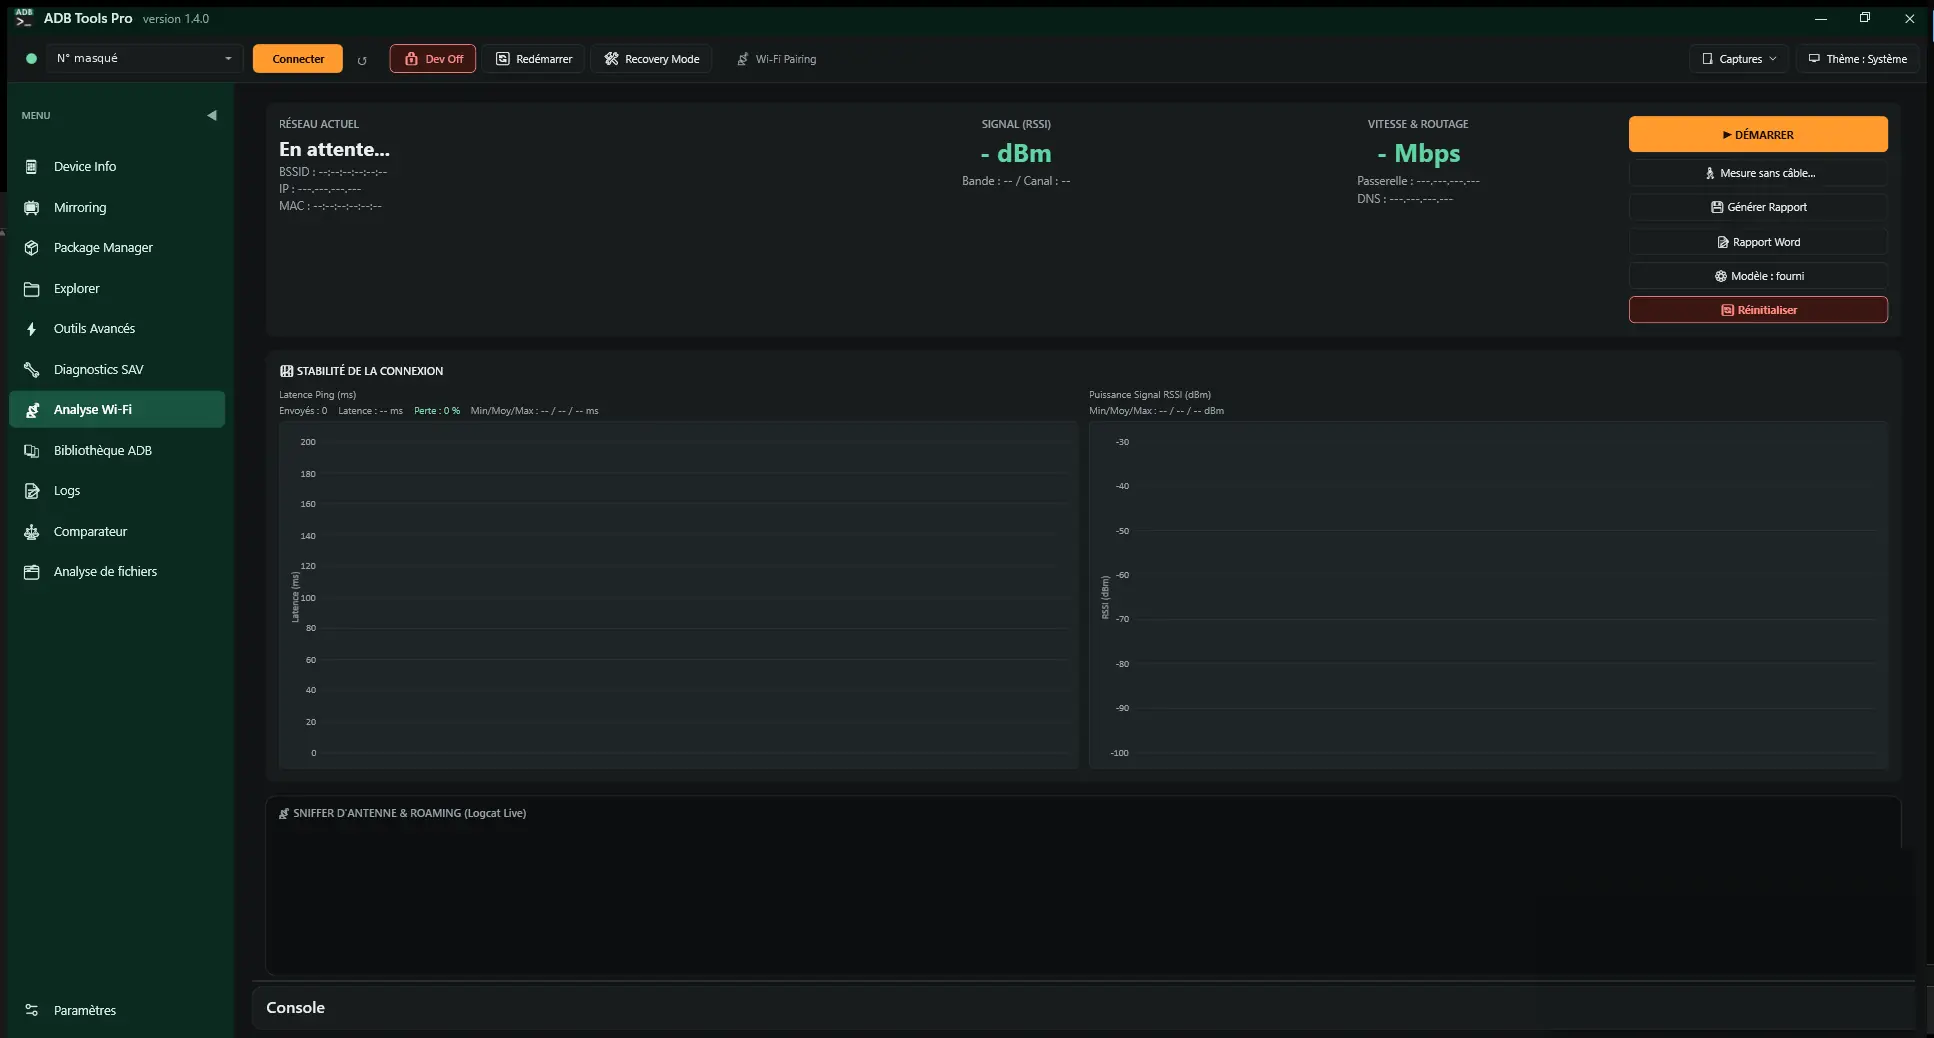
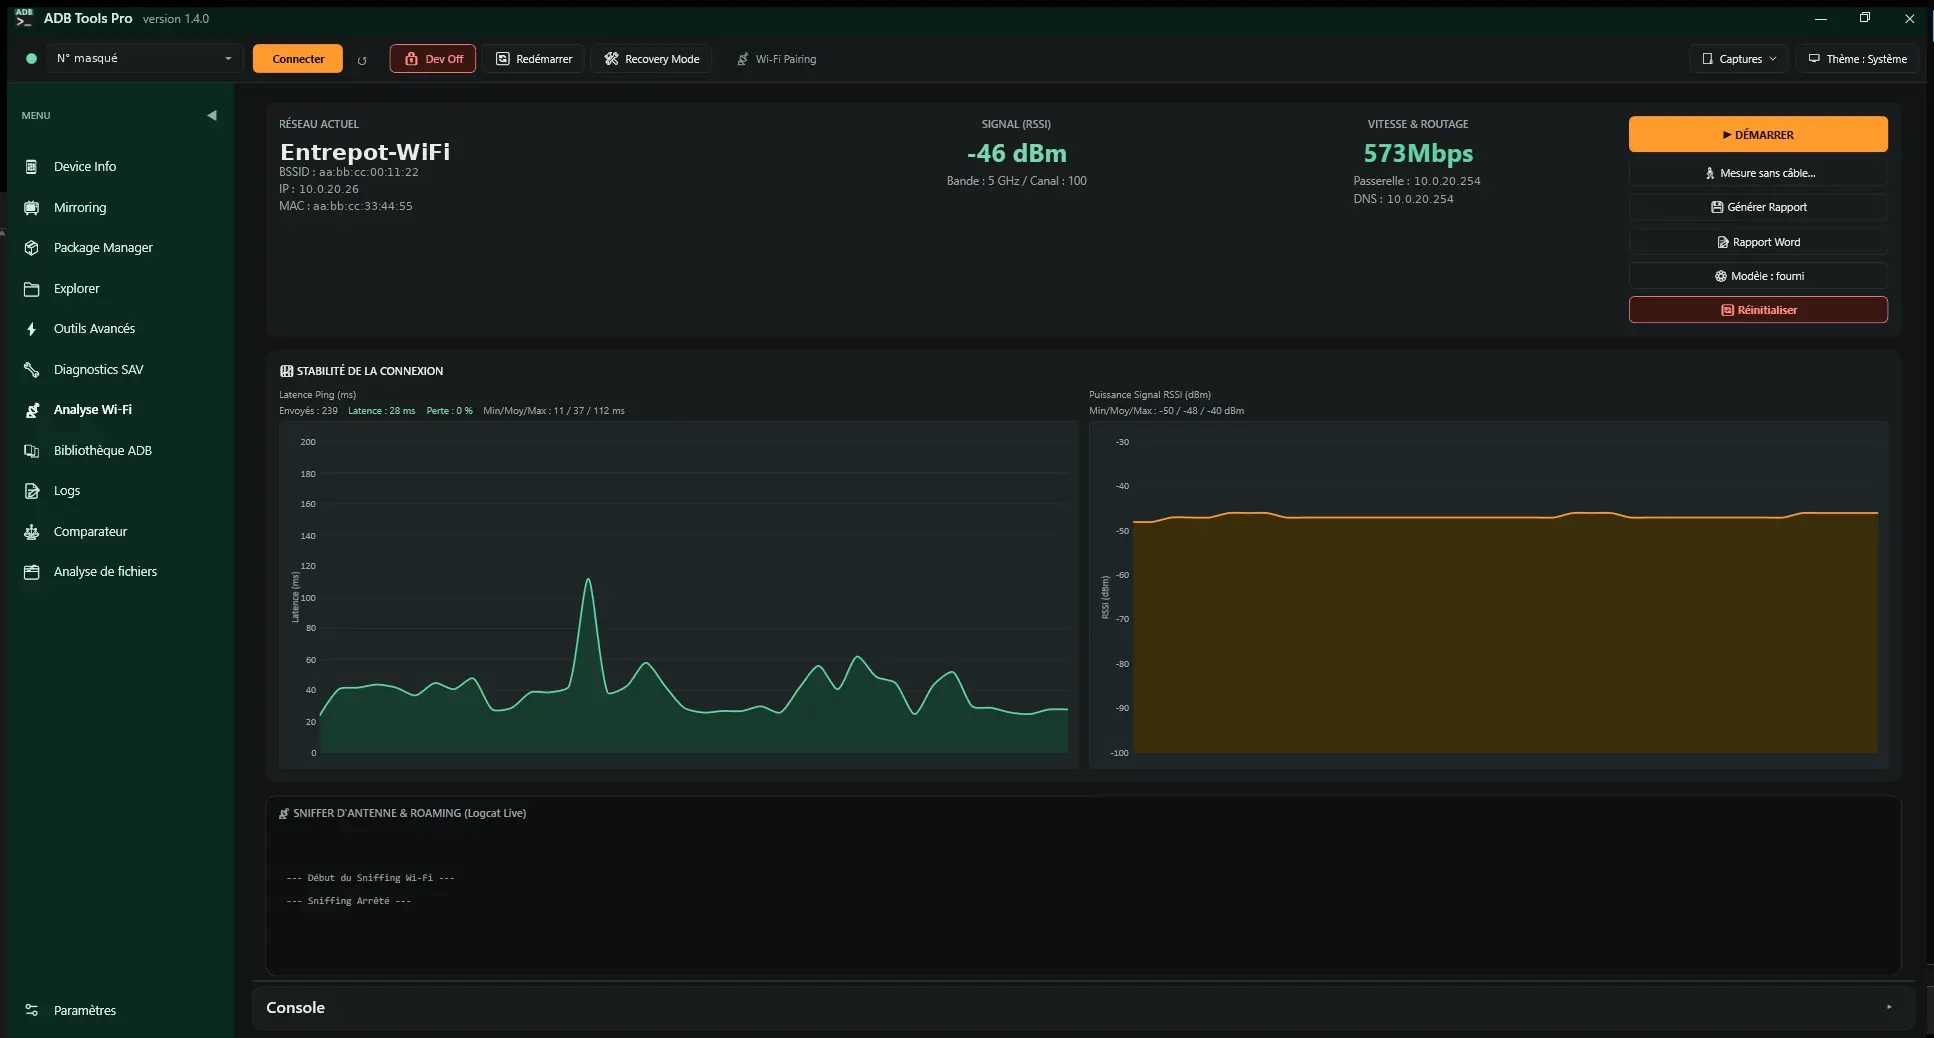
Site : captures du test du lecteur, de l'analyse Wi-Fi et des rapports Word
Réseau Wi-Fi, BSSID, adresses IP et MAC remplacés par des valeurs d'exemple ; numéros de série masqués.
L'explorateur et la bibliothèque de commandes quittent la galerie (toujours décrits dans les fonctions).

Claude-Session: https://claude.ai/code/session_0161XsggCHTURgo5H8VgTaWT

diff --git a/site/index.html b/site/index.html
@@ -275,18 +275,21 @@
     <section id="captures">
     <div class="wrap">
       <h2>En images</h2>
-      <p class="intro">Captures de la version 1.4 en thème sombre, sur un Zebra TC58. Cliquez pour agrandir.</p>
+      <p class="intro">Captures de la version 1.4 en thème sombre, sur des Zebra TC58 et TC53. Numéros de série et réseau masqués. Cliquez pour agrandir.</p>
       <div class="shots">
         <figure class="lead"><a href="assets/captures/analyse-fichiers.webp" title="Ouvrir en grand"><img src="assets/captures/analyse-fichiers.webp" alt="Analyse de fichiers : un relevé RxLogger de 2,2 millions de lignes, la frise par sujet et les outils d'enquête." width="1934" height="1038" decoding="async"></a><figcaption>Analyse de fichiers : un relevé RxLogger de 2,2 millions de lignes, la frise par sujet et les outils d'enquête.</figcaption></figure>
         <figure><a href="assets/captures/dashboard.webp" title="Ouvrir en grand"><img src="assets/captures/dashboard.webp" alt="Tableau de bord du terminal et commandes ADB." width="1934" height="1038" loading="lazy" decoding="async"></a><figcaption>Tableau de bord du terminal et commandes ADB.</figcaption></figure>
         <figure><a href="assets/captures/mirroring.webp" title="Ouvrir en grand"><img src="assets/captures/mirroring.webp" alt="Mirroring : l'écran du terminal sur le PC, avec enregistrement vidéo et filigrane." width="1905" height="999" loading="lazy" decoding="async"></a><figcaption>Mirroring : l'écran du terminal sur le PC, avec enregistrement vidéo et filigrane.</figcaption></figure>
         <figure><a href="assets/captures/diagnostics.webp" title="Ouvrir en grand"><img src="assets/captures/diagnostics.webp" alt="Diagnostics SAV : check-up automatique, laboratoire matériel en direct, tests du terminal et du lecteur." width="1934" height="1038" loading="lazy" decoding="async"></a><figcaption>Diagnostics SAV : check-up automatique, laboratoire matériel en direct, tests du terminal et du lecteur.</figcaption></figure>
+        <figure><a href="assets/captures/lecteur.webp" title="Ouvrir en grand"><img src="assets/captures/lecteur.webp" alt="Test du lecteur : chaque lecture, sa symbologie, le délai depuis la gâchette et le taux de réussite." width="1934" height="1038" loading="lazy" decoding="async"></a><figcaption>Test du lecteur : chaque lecture, sa symbologie, le délai depuis la gâchette et le taux de réussite.</figcaption></figure>
+        <figure><a href="assets/captures/appli-diagnostic.webp" title="Ouvrir en grand"><img src="assets/captures/appli-diagnostic.webp" alt="L'appli de diagnostic sur le terminal, le temps d'un test : capteurs, lecteur et bien d'autres." width="1934" height="1038" loading="lazy" decoding="async"></a><figcaption>L'appli de diagnostic sur le terminal, le temps d'un test : capteurs, lecteur et bien d'autres.</figcaption></figure>
+        <figure><a href="assets/captures/wifi.webp" title="Ouvrir en grand"><img src="assets/captures/wifi.webp" alt="Analyse Wi-Fi en direct : signal, latence, borne, adresses." width="1934" height="1038" loading="lazy" decoding="async"></a><figcaption>Analyse Wi-Fi en direct : signal, latence, borne, adresses.</figcaption></figure>
+        <figure><a href="assets/captures/rapport-wifi.webp" title="Ouvrir en grand"><img src="assets/captures/rapport-wifi.webp" alt="Rapport Word de l'analyse Wi-Fi, avec les graphiques, à remettre au client." width="1934" height="1038" loading="lazy" decoding="async"></a><figcaption>Rapport Word de l'analyse Wi-Fi, avec les graphiques, à remettre au client.</figcaption></figure>
+        <figure><a href="assets/captures/rapport-sav.webp" title="Ouvrir en grand"><img src="assets/captures/rapport-sav.webp" alt="Rapport Word du diagnostic SAV : chaque test, son résultat et le commentaire du technicien." width="1934" height="1038" loading="lazy" decoding="async"></a><figcaption>Rapport Word du diagnostic SAV : chaque test, son résultat et le commentaire du technicien.</figcaption></figure>
         <figure><a href="assets/captures/logs.webp" title="Ouvrir en grand"><img src="assets/captures/logs.webp" alt="Logs en direct avec l'analyse automatique et ses conseils." width="1934" height="1038" loading="lazy" decoding="async"></a><figcaption>Logs en direct avec l'analyse automatique et ses conseils.</figcaption></figure>
         <figure><a href="assets/captures/comparateur.webp" title="Ouvrir en grand"><img src="assets/captures/comparateur.webp" alt="Comparateur : deux terminaux côte à côte, seules les vraies différences ressortent." width="1934" height="1038" loading="lazy" decoding="async"></a><figcaption>Comparateur : deux terminaux côte à côte, seules les vraies différences ressortent.</figcaption></figure>
         <figure><a href="assets/captures/applications.webp" title="Ouvrir en grand"><img src="assets/captures/applications.webp" alt="Applications : liste, actions rapides, installation par glisser-déposer." width="1934" height="1038" loading="lazy" decoding="async"></a><figcaption>Applications : liste, actions rapides, installation par glisser-déposer.</figcaption></figure>
-        <figure><a href="assets/captures/explorateur.webp" title="Ouvrir en grand"><img src="assets/captures/explorateur.webp" alt="Explorateur de fichiers du terminal." width="1934" height="1038" loading="lazy" decoding="async"></a><figcaption>Explorateur de fichiers du terminal.</figcaption></figure>
         <figure><a href="assets/captures/outils.webp" title="Ouvrir en grand"><img src="assets/captures/outils.webp" alt="Outils avancés : boutons, état du terminal, affichage, mise à jour de l'OS." width="1934" height="1038" loading="lazy" decoding="async"></a><figcaption>Outils avancés : boutons, état du terminal, affichage, mise à jour de l'OS.</figcaption></figure>
-        <figure><a href="assets/captures/bibliotheque.webp" title="Ouvrir en grand"><img src="assets/captures/bibliotheque.webp" alt="Bibliothèque de commandes ADB prêtes à l'emploi." width="1934" height="1038" loading="lazy" decoding="async"></a><figcaption>Bibliothèque de commandes ADB prêtes à l'emploi.</figcaption></figure>
       </div>
     </div>
   </section>

diff --git a/site/en/index.html b/site/en/index.html
@@ -275,18 +275,21 @@
     <section id="screenshots">
     <div class="wrap">
       <h2>Screenshots</h2>
-      <p class="intro">Version 1.4 in dark theme, on a Zebra TC58 (French interface, English available). Click to enlarge.</p>
+      <p class="intro">Version 1.4 in dark theme, on Zebra TC58 and TC53 devices (French interface, English available). Serial numbers and network details are masked. Click to enlarge.</p>
       <div class="shots">
         <figure class="lead"><a href="../assets/captures/analyse-fichiers.webp" title="Open full size"><img src="../assets/captures/analyse-fichiers.webp" alt="File analysis: a 2.2-million-line RxLogger archive, the per-topic timeline and the investigation tools." width="1934" height="1038" decoding="async"></a><figcaption>File analysis: a 2.2-million-line RxLogger archive, the per-topic timeline and the investigation tools.</figcaption></figure>
         <figure><a href="../assets/captures/dashboard.webp" title="Open full size"><img src="../assets/captures/dashboard.webp" alt="Device dashboard and ADB commands." width="1934" height="1038" loading="lazy" decoding="async"></a><figcaption>Device dashboard and ADB commands.</figcaption></figure>
         <figure><a href="../assets/captures/mirroring.webp" title="Open full size"><img src="../assets/captures/mirroring.webp" alt="Mirroring: the device screen on the PC, with screen recording and watermark." width="1905" height="999" loading="lazy" decoding="async"></a><figcaption>Mirroring: the device screen on the PC, with screen recording and watermark.</figcaption></figure>
         <figure><a href="../assets/captures/diagnostics.webp" title="Open full size"><img src="../assets/captures/diagnostics.webp" alt="Diagnostics: automatic check-up, live hardware lab, device and scanner tests." width="1934" height="1038" loading="lazy" decoding="async"></a><figcaption>Diagnostics: automatic check-up, live hardware lab, device and scanner tests.</figcaption></figure>
+        <figure><a href="../assets/captures/lecteur.webp" title="Open full size"><img src="../assets/captures/lecteur.webp" alt="Scanner test: every scan, its symbology, the time since the trigger and the success rate." width="1934" height="1038" loading="lazy" decoding="async"></a><figcaption>Scanner test: every scan, its symbology, the time since the trigger and the success rate.</figcaption></figure>
+        <figure><a href="../assets/captures/appli-diagnostic.webp" title="Open full size"><img src="../assets/captures/appli-diagnostic.webp" alt="The diagnostic app on the device, for the duration of a test: sensors, scanner and more." width="1934" height="1038" loading="lazy" decoding="async"></a><figcaption>The diagnostic app on the device, for the duration of a test: sensors, scanner and more.</figcaption></figure>
+        <figure><a href="../assets/captures/wifi.webp" title="Open full size"><img src="../assets/captures/wifi.webp" alt="Live Wi-Fi analysis: signal, latency, access point, addresses." width="1934" height="1038" loading="lazy" decoding="async"></a><figcaption>Live Wi-Fi analysis: signal, latency, access point, addresses.</figcaption></figure>
+        <figure><a href="../assets/captures/rapport-wifi.webp" title="Open full size"><img src="../assets/captures/rapport-wifi.webp" alt="Wi-Fi analysis Word report with charts, ready for the customer." width="1934" height="1038" loading="lazy" decoding="async"></a><figcaption>Wi-Fi analysis Word report with charts, ready for the customer.</figcaption></figure>
+        <figure><a href="../assets/captures/rapport-sav.webp" title="Open full size"><img src="../assets/captures/rapport-sav.webp" alt="Diagnostics Word report: every test, its result and the technician's comment." width="1934" height="1038" loading="lazy" decoding="async"></a><figcaption>Diagnostics Word report: every test, its result and the technician's comment.</figcaption></figure>
         <figure><a href="../assets/captures/logs.webp" title="Open full size"><img src="../assets/captures/logs.webp" alt="Live logs with automatic analysis and advice." width="1934" height="1038" loading="lazy" decoding="async"></a><figcaption>Live logs with automatic analysis and advice.</figcaption></figure>
         <figure><a href="../assets/captures/comparateur.webp" title="Open full size"><img src="../assets/captures/comparateur.webp" alt="Comparator: two devices side by side, only real differences stand out." width="1934" height="1038" loading="lazy" decoding="async"></a><figcaption>Comparator: two devices side by side, only real differences stand out.</figcaption></figure>
         <figure><a href="../assets/captures/applications.webp" title="Open full size"><img src="../assets/captures/applications.webp" alt="Apps: package list, quick actions, drag-and-drop install." width="1934" height="1038" loading="lazy" decoding="async"></a><figcaption>Apps: package list, quick actions, drag-and-drop install.</figcaption></figure>
-        <figure><a href="../assets/captures/explorateur.webp" title="Open full size"><img src="../assets/captures/explorateur.webp" alt="Device file explorer." width="1934" height="1038" loading="lazy" decoding="async"></a><figcaption>Device file explorer.</figcaption></figure>
         <figure><a href="../assets/captures/outils.webp" title="Open full size"><img src="../assets/captures/outils.webp" alt="Advanced tools: buttons, device state, display, OS update." width="1934" height="1038" loading="lazy" decoding="async"></a><figcaption>Advanced tools: buttons, device state, display, OS update.</figcaption></figure>
-        <figure><a href="../assets/captures/bibliotheque.webp" title="Open full size"><img src="../assets/captures/bibliotheque.webp" alt="Ready-to-use ADB command library." width="1934" height="1038" loading="lazy" decoding="async"></a><figcaption>Ready-to-use ADB command library.</figcaption></figure>
       </div>
     </div>
   </section>
